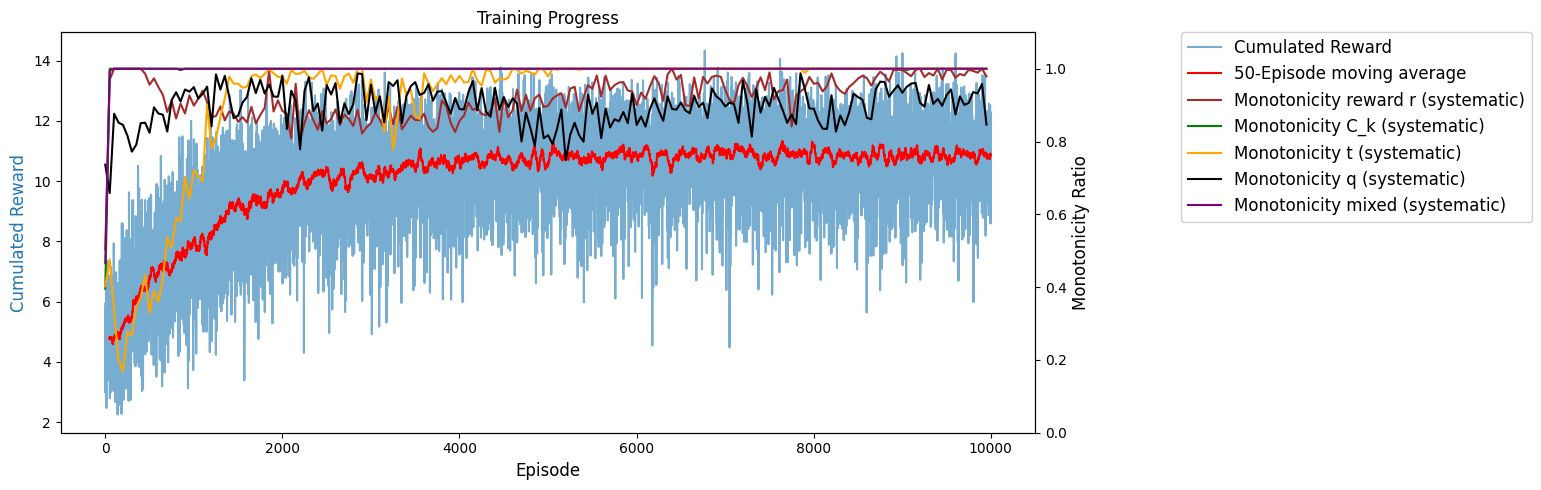
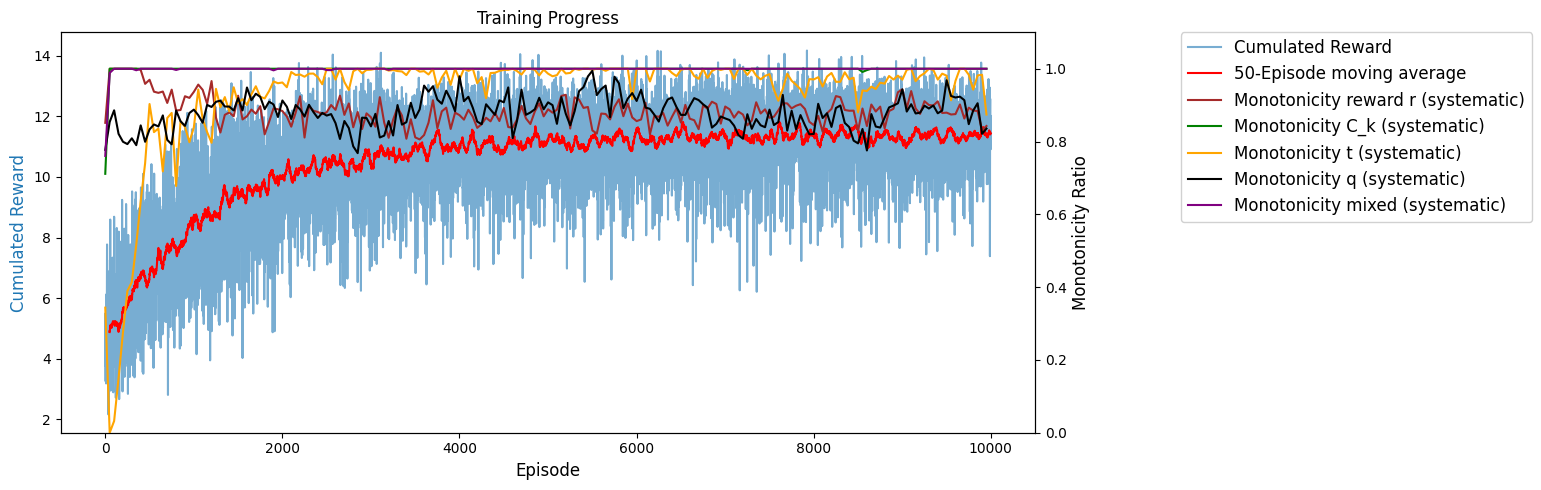
bericht

Changed region(s): [[0.0623, 0.0918, 0.6541, 0.8571], [0.0623, 0.1224, 0.0934, 0.1531]]

diff --git a/Bericht/sections/experiments.tex b/Bericht/sections/experiments.tex
@@ -20,7 +20,7 @@ episodes by sampling $5$ trajectories, creating pairs of states as described in
 Section~\ref{subsec:monotonicity-test}, and counting the number of monotonicity violations in
 these pairs. This test is applied identically to both networks.
 
-\textbf{Evaluation.} After performing $20{,}000$ training episodes, the agent's performance is evaluated; note that the network
+\textbf{Evaluation.} After performing $10{,}000$ training episodes, the agent's performance is evaluated; note that the network
 weights do not change anymore here. We report the average performance on $10{,}000$ episodes with
 $\epsilon = 0$. Monotonicity is evaluated by running the monotonicity tests for the different
 parameters, each with $10{,}000$ pairs.
@@ -40,30 +40,29 @@ The Standard-DQN baseline is a standard two-layer feedforward network with no st
 of the monotonicity relations from Section~\ref{subsec:monotonicity}.
 
 \textbf{Monotonicity behavior.} The standard DQN still manages to learn a policy that is mostly monotone, with only a few violations. Especially
-the monotonicity in $C_k$ is learned very well, and is fulfilled after few training episodes already.
-Monotonicity in $q$ shows an interesting behavior: first the monotonicity drops to a ratio of $0$,
-however during training the monotonicity recovers and gets to a ratio of $>0.9$ at the end. This behaviour can
-be seen across different instances.
+the monotonicity in $C_k$ and the monotonicity in the mixed pairs is learned very well, and is fulfilled after few training episodes already.
+Monotonicity in $t$ shows an interesting behavior: first the monotonicity drops to a ratio of $0.2$,
+however during training the monotonicity recovers and gets to a perfect ratio of $1.0$ at the end. This behaviour can
+be seen across different instances. 
+The monotonicity in $q$ and $r$ is learned well from the beginning on and achieves a ratio $>0.8$ in the end. \\
+An illustrative example of the training phase together with the monotonicity behavior is shown in Figure~\ref{fig:standard_dqn_training} for the benchmark instance SB05 with $T_d=50$.
 
-\textbf{Hier nochmal drüberschauen wies am Ende aussieht.}
-
-The monotonicity in $t$ and $r$ is learned well from the beginning on and achieves a ratio $>0.9$ in the end.
-For the mixed pairs the monotonicity is learned very well from the beginning on.
-
-\textbf{Performance.} The training and evaluation phase, together with its monotonicity behaviour,
-is shown in Figures~\ref{fig:standard_dqn_training} and~\ref{fig:standard_dqn_eval} for the
-benchmark instance SB05 with $T_d=50$.
-% TODO: Ergebnisse (Reward-Niveau, Vergleich über Instanzen) beschreiben.
+\textbf{Performance.} After $4000$ episodes of training the agent's performance is already 
+very good and a stable reward niveau is achieved. From this point on, the reward only increases slow and 
+the $50$-episodes moving average fluctuates around the final reward.
+The final evaluation phase shows that the agent achieves a very good performance, which is close to the optimal expected objective value $Z^*$ of the SDP formulation of \textcite{drausp_lion18}.
+Remark that the result in the final evaluation is higher than in the training phase, which is due to the fact that the evaluation is performed with $\epsilon=0$ and therefore no random actions are taken.
 \begin{figure}[ht]
 	\centering
+	\hspace*{-1.8cm}
 	\includegraphics[scale=0.5]{grafiken/Experiments/standard_DQN_mono_SB5_all.png}
-	\caption{SB05, $T_d = 50$, $10000$ episodes training}
+	\caption[Standard-DQN training and monotonicity behavior (SB05, $T_d=50$)]{Standard-DQN: training performance and monotonicity behavior on SB05, $T_d = 50$, over $10\,000$ training episodes.}
 	\label{fig:standard_dqn_training}
 \end{figure}
 \begin{figure}[ht]
 	\centering
 	\includegraphics[scale=0.5]{grafiken/Experiments/standard_DQN_eval_SB5.png}
-	\caption{SB05, $T_d = 50$, evaluation phase}
+	\caption[Standard-DQN evaluation phase (SB05, $T_d=50$)]{Standard-DQN: evaluation phase on SB05, $T_d = 50$.}
 	\label{fig:standard_dqn_eval}
 \end{figure}
 
@@ -76,31 +75,34 @@ The Lattice-DQN is built up exactly as described in Section~\ref{subsec:lattice-
 beginning on, as the network architecture enforces monotonicity by design. An example of the
 training phase is shown in Figure~\ref{fig:lattice_dqn_training} for the benchmark instance SB05
 with $T_d=50$.
-\begin{figure}[ht]
-	\centering
-	\includegraphics[scale=0.5]{grafiken/Experiments/Deep_Lattice_mono_SB5_all.png}
-	\caption{SB05, $T_d = 50$, $10000$ episodes training}
-	\label{fig:lattice_dqn_training}
-\end{figure}
 
 \textbf{Performance.} Compared to a Standard-DQN with the same number of parameters, the agent has
 to learn the same policy with a more constrained function class. This has to be taken into account
 when designing the training architecture: the Lattice network needs considerably more fine-tuning
 of the hyperparameters, whereas the Standard-DQN is much more robust to small changes in the
 training-scheme hyperparameters (e.g.\ $\epsilon$-decay steps, reject bias, number of episodes).
+Nevertheless, using the described training architecture in \ref{subsec:exp-setting}, the results are comparable
+to the ones obtained by the standard \ac{dqn}. 
 
+\begin{figure}[ht]
+	\centering
+	\hspace*{-1.8cm}
+	\includegraphics[scale=0.5]{grafiken/Experiments/Deep_Lattice_mono_SB5_all.png}
+	\caption[Lattice-DQN training and monotonicity behavior (SB05, $T_d=50$)]{Lattice-DQN: training performance and monotonicity behavior on SB05, $T_d = 50$, over $10\,000$ training episodes.}
+	\label{fig:lattice_dqn_training}
+\end{figure}
 
 \subsection{Numerical results}
 \label{subsec:exp-results}
 
 Tables~\ref{tab:results-s} and~\ref{tab:results-w} compare both agents against the optimal
-expected objective value $Z^*$ of the SDP formulation of \textcite{drausp_lion18} (their Table~2
-and Table~1, respectively). $\bar R_{\text{eval}}$ is the mean cumulated reward over $10\,000$
+expected objective value $Z^*$ of the SDP formulation of \textcite{drausp_lion18} (Table~1
+and Table~2, respectively). $\bar R_{\text{eval}}$ is the mean cumulated reward over $10\,000$
 evaluation episodes with $\epsilon = 0$, reported as mean $\pm$ one standard deviation across
 those episodes. The monotonicity columns report the final ratio of
 satisfied pairs ($10\,000$ pairs per axis) for the Standard-DQN; the Lattice-DQN satisfies every
 check exactly by construction (ratio $1.00$ throughout) and is therefore omitted there. The
-runtime columns are wall-clock seconds for the $20\,000$ training episodes and the $10\,000$
+runtime columns are wall-clock seconds for the $10\,000$ training episodes and the $10\,000$
 evaluation episodes, given as Standard-DQN\,/\,Lattice-DQN; entries marked $\dagger$ were
 distorted by concurrent load on the shared machine and are not representative.
 
@@ -108,7 +110,7 @@ distorted by concurrent load on the shared machine and are not representative.
   \centering
   \footnotesize
   \setlength{\tabcolsep}{4pt}
-  \caption{Results for the \texttt{lion18s} instances that require scheduling
+  \caption[Results on the \texttt{lion18s} scheduling instances]{Results for the \texttt{lion18s} instances that require scheduling
     ($\text{len}(q) < K$; blocks \texttt{SA} $K=4$, \texttt{SB} $K=8$, \texttt{SC} $K=12$).
     $Z^*$ from \textcite{drausp_lion18}, Table~2.}
   \label{tab:results-s}
@@ -159,7 +161,7 @@ distorted by concurrent load on the shared machine and are not representative.
   \centering
   \footnotesize
   \setlength{\tabcolsep}{4pt}
-  \caption{Results for the \texttt{W} instances (\texttt{lion18w}; blocks \texttt{WA} $K=4$,
+  \caption[Results on the \texttt{lion18w} accept/reject instances]{Results for the \texttt{W} instances (\texttt{lion18w}; blocks \texttt{WA} $K=4$,
     \texttt{WB} $K=8$, \texttt{WC} $K=12$, all with $\text{len}(q) = K$, i.e.\ accept/reject only).
     $Z^*$ from \textcite{drausp_lion18}, Table~1.}
   \label{tab:results-w}

diff --git a/Bericht/sections/monotonicty.tex b/Bericht/sections/monotonicty.tex
@@ -14,14 +14,21 @@ For the state $s$ introduced in Equation~\eqref{eq:state}, plausible monotone re
         be valued worse than one with lower reward.
   \item $q_k$ \textbf{(DECREASING)}: A higher resource demand of the current request restricts the
         remaining capacity more strongly and can only decrease the future reward, when accepted.
-  \end{itemize}
+\end{itemize}
+In detail, for a given state $s = (t, C_1, \dots, C_k, r, q_1, \dots, q_k)$ and every valid action $a \in \mathcal{A}_s^{\text{valid}}$, we expect the following monotonicity relations to hold for the $Q$-function:
+\begin{align*}
+  Q(s, a) &\leq Q(s_{t}', a) \quad \text{(earlier decision epoch is better)} \\
+  Q(s, a) &\leq Q(s_{C}', a) \quad \text{(more capacity is better)} \\
+  Q(s, a) &\leq Q(s_{r}', a) \quad \text{(higher reward is better)} \\
+  Q(s, a) &\leq Q(s_{q}', a) \quad \text{(lower resource demand is better)}
+\end{align*}
+where $s_{t}'$, $s_{C}'$, $s_{r}'$, and $s_{q}'$ are the corresponding improved states according to the monotonicity direction.
 
 A standard DQN (cf.\ \texttt{standard\_dqn.py}) approximates $Q(s,a)$ with a generic feedforward
-network and has no guarantee of respecting those relationships. 
-
+network and has no guarantee of respecting those relationships.
 To make use of this domain knowledge, we choose to enforce the monotonicity relations \textit{structurally} in the network architecture, rather than hoping a generic network learns them. Remark that this is a stronger approach than simply encouraging monotonicity as a soft penalty term in the loss function.
-
-Before presenting this structural solution in detail, it is worth asking whether it is actually needed: a generic network could in principle also learn the relations postulated above implicitly while training. Answering this question, it first requires a test that can measure how well an arbitrary $Q$-network respects monotonicity in the first place. We introduce such a monotonicity test below and later apply it to both the standard DQN and the Lattice architectures presented in this chapter, so that their monotonicity compliance can be compared quantitatively.
+Before presenting this structural solution in detail, it is worth asking whether it is actually needed: a generic network could in principle also learn the relations postulated above implicitly while training. Answering this question, it first requires a test that can measure how well an arbitrary 
+$Q$-network respects monotonicity in the first place. We introduce such a monotonicity test below and later apply it to both the standard DQN and the Lattice architectures presented in this chapter, so that their monotonicity compliance can be compared quantitatively.
 
 \subsection{Monotonicity test}
 \label{subsec:monotonicity-test}
@@ -41,7 +48,7 @@ In addition, we build a fifth pair $(s,s_{\text{mixed}})$ in which all of the fo
 
 For every pair $(s,s')$, both states are propagated through the current Q-network and the resulting $Q$-values are compared action-wise, with invalid actions excluded via the already masked $Q$-values. 
 
-The resulting \emph{monotonicity score}, calculated per feature, is the fraction of (state, action) pairs for which this inequality actually holds: a value of $1.0$ means perfect monotonicity compliance, while values $<1$ indicate violations of the respective relation. 
+The resulting \emph{monotonicity score}, calculated per feature, is the fraction of (state, action) pairs for which this inequality actually holds: a value of $1.0$ means perfect monotonicity compliance, while values less than $1$ indicate violations of the respective relation. 
 This leads us to five separate scores, namely for $t$, $C$, $r$, $q$, and the mixed case, which helps us to quantify how well the current $Q$-network respects the monotonicity relations in each dimension.
 
 We will run this monotonicity test periodically during training and report the results in Section~\ref{sec:experiments} for both the standard DQN and the Lattice architecture, so that their monotonicity compliance can be compared quantitatively. 
@@ -135,7 +142,7 @@ To retain the benefits of the lattice principle while scaling to larger state sp
   {\scriptsize $x_1$: e.\,g.\ $t_{\text{cal}} \in [0,1]$ \quad
    $x_2$: e.\,g.\ $r_{\text{cal}} \in [0,1]$ \quad
    $x_3$: e.\,g.\ $C_{k,\text{cal}} \in [0,1]$}
-  \caption{A single 3-input lattice (grid size $2\times2\times2$) from Layer~1. The eight corner
+  \caption[A single 3-input lattice with trilinear interpolation]{A single 3-input lattice (grid size $2\times2\times2$) from Layer~1. The eight corner
     weights $\theta_{ijk}$ are learnable parameters; the function value at an arbitrary point
     inside the cube $[0,1]^3$ is obtained by trilinear interpolation between the corners.}
   \label{fig:lattice-cube}
@@ -194,9 +201,10 @@ cannot be reversed by negative weights in this final step. This makes $Q(s,a)$ m
 Figure~\ref{fig:deep-lattice-architecture} sketches this construction for $K=2$ resources.
 
 
-\begin{figure}[htbp]
+\begin{figure}[p]
   \centering
-  \resizebox{\textwidth}{!}{%
+  \makebox[\textwidth][c]{%
+  \resizebox{1.18\textwidth}{!}{%
   \begin{tikzpicture}[
       font=\small,
       every node/.style={align=center},
@@ -328,8 +336,8 @@ Figure~\ref{fig:deep-lattice-architecture} sketches this construction for $K=2$ 
     \node[anchor=east, gray] at (-0.9,-9.3) {\scriptsize Layer 2};
     \node[anchor=east, gray] at (-0.9,-11.3) {\scriptsize Output};
 
-  \end{tikzpicture}}
-  \caption{Sketch of the \emph{Deep Lattice} network for $K=2$ resources as described above.}
+  \end{tikzpicture}}}
+  \caption[Deep Lattice network architecture for $K=2$ resources]{Sketch of the \emph{Deep Lattice} network for $K=2$ resources as described above.}
   \label{fig:deep-lattice-architecture}
 \end{figure}
 

diff --git a/Bericht/sections/conclusion.tex b/Bericht/sections/conclusion.tex
@@ -1,4 +1,25 @@
 \section{Conclusion}
 \label{sec:conclusion}
 
-TODO: Zusammenfassung, Limitationen, Ausblick.
+We developed a represenation of the \acs{drausp} as a finite-horizon \acs{mdp}, which enables us
+to use reinforcement learning techniques to learn acceptance and scheduling policies. For optimization, we used
+a value-based deep \acs{rl} approach, specifically Q-learning with a deep neural network as function approximator.
+We constructed a stable baseline approach in Section \ref{sec:rl-approach} using a Standard \acs{dqn}. We
+tested the behaviour of the learned $Q$-function with respect to monotonicity relations inherent to the problem.
+Doing so, we constructed a monotonicity test to evaluate the learned $Q$-function (see \ref{subsec:monotonicity-test}).\\
+As a second approach, we took advantage of the known monotonicity relations presented in \ref{subsec:monotonicity} 
+and constructed a monotonicity-aware \acs{dqn}, using lattice layers. We built up a deep lattice
+network architecture that enforces monotonicity by design, and again evaluated its performance 
+and monotonicity behaviour on the same benchmark instances as the Standard \acs{dqn}.\\
+We saw that even without any knowledge about the problem strucure at the beginning, the 
+Standard \acs{dqn} still manages to learn monotonicity. The Lattice-\acs{dqn} 
+on the other hand, enforces monotonicity by design and therefore satisfies all monotonicity tests exactly. 
+But using the Lattice-\acs{dqn} comes with a trade-off: the more constrained function class of the Lattice-\acs{dqn}
+makes it harder to learn the optimal policy. This leads to a slower convergence and a slightly worse performance in the end.\\
+
+Future work could focus on improving the performance of the Lattice-\acs{dqn} by using a more complex architecture, e.g. by 
+adding more layers or increasing the number of lattices per layer. Another approach could be to use a hybrid architecture, 
+where the first layers are standard feedforward layers and the last layers are lattice layers. This would allow the network 
+to learn a more complex function while still enforcing monotonicity in the last layers. 
+In our numerical experiments the Standard \acs{dqn} still manages to learn monotonicity, but it is not guaranteed to do so.
+One could test if this holds true if the network architecture is changed or instances get larger and more complex.

diff --git a/Bericht/sections/rl_approach.tex b/Bericht/sections/rl_approach.tex
@@ -82,7 +82,7 @@ $K=5$, request length $\ell=3$, action $a=2$ and applies the update rule.
     \draw[->] (b4) -- node[right, xshift=1pt] {$-q_3$} (a4);
     \draw[->, dashed, gray] (b5) -- (a5);
   \end{tikzpicture}
-  \caption{Effect of the transition function $\mathcal{T}$ ($K=5$ slots, request length $\ell=3$, action $a=2$): the
+  \caption[Effect of the transition function on the resource capacities]{Effect of the transition function $\mathcal{T}$ ($K=5$ slots, request length $\ell=3$, action $a=2$): the
     remaining capacities of the three occupied slots each decrease by the corresponding entry of
     the demand vector $q$, while the capacities of slots outside the accepted block ($k=1,5$)
     are unaffected.}
@@ -133,7 +133,7 @@ formulations are subsequently solved (exact dynamic programming vs.\ function ap
              & $a \in \{0,\dots,K\}$: only the start slot \\
     \bottomrule
   \end{tabular}
-  \caption{Comparison of the state/action space formulation in the DRAUSP formulation of \textcite{drausp_lion18} and in our approach.}
+  \caption[State/action space: \textcite{drausp_lion18} vs.\ our approach]{Comparison of the state/action space formulation in the DRAUSP formulation of \textcite{drausp_lion18} and in our approach.}
   \label{tab:mdp-comparison}
 \end{table}
 

diff --git a/Bericht/sections/introduction.tex b/Bericht/sections/introduction.tex
@@ -1,7 +1,5 @@
 \section{Introduction}
 \label{sec:introduction}
-
-TODO: Motivation, Problemstellung und Aufbau des Berichts.
 \subsection{Motivation and Problem Statement}
 \label{subsec:motivation}
 

diff --git a/Bericht/main.tex b/Bericht/main.tex
@@ -96,7 +96,6 @@
 
 % Inhalt
 \include{sections/introduction}
-\include{sections/drausp}
 \include{sections/rl_approach}
 \include{sections/monotonicty}
 
